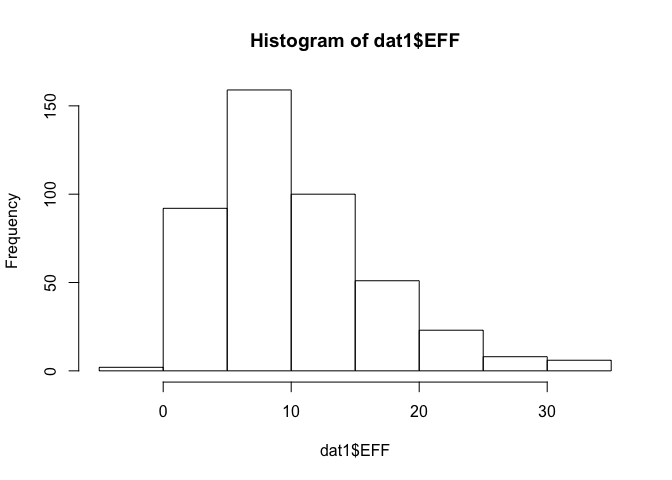
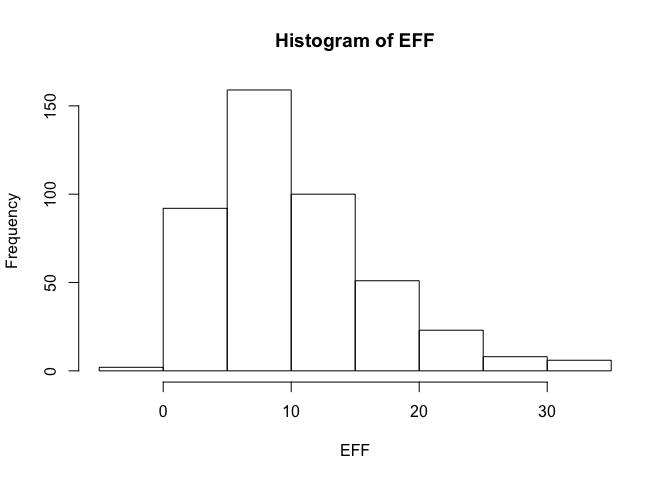
hw02

Changed region(s): [[0.375, 0.0625, 0.6875, 0.125], [0.4688, 0.9062, 0.5938, 0.9688]]

diff --git a/hw02/hw02_Olivier_Damas.md b/hw02/hw02_Olivier_Damas.md
@@ -57,7 +57,8 @@ summary(dat1$EFF)
     ##  -0.600   5.452   9.090  10.140  13.250  33.840
 
 ``` r
-hist(dat1$EFF)
+EFF <- dat1$EFF
+hist(EFF)
 ```
 
 ![](hw02_Olivier_Damas_files/figure-markdown_github-ascii_identifiers/unnamed-chunk-1-1.png)
